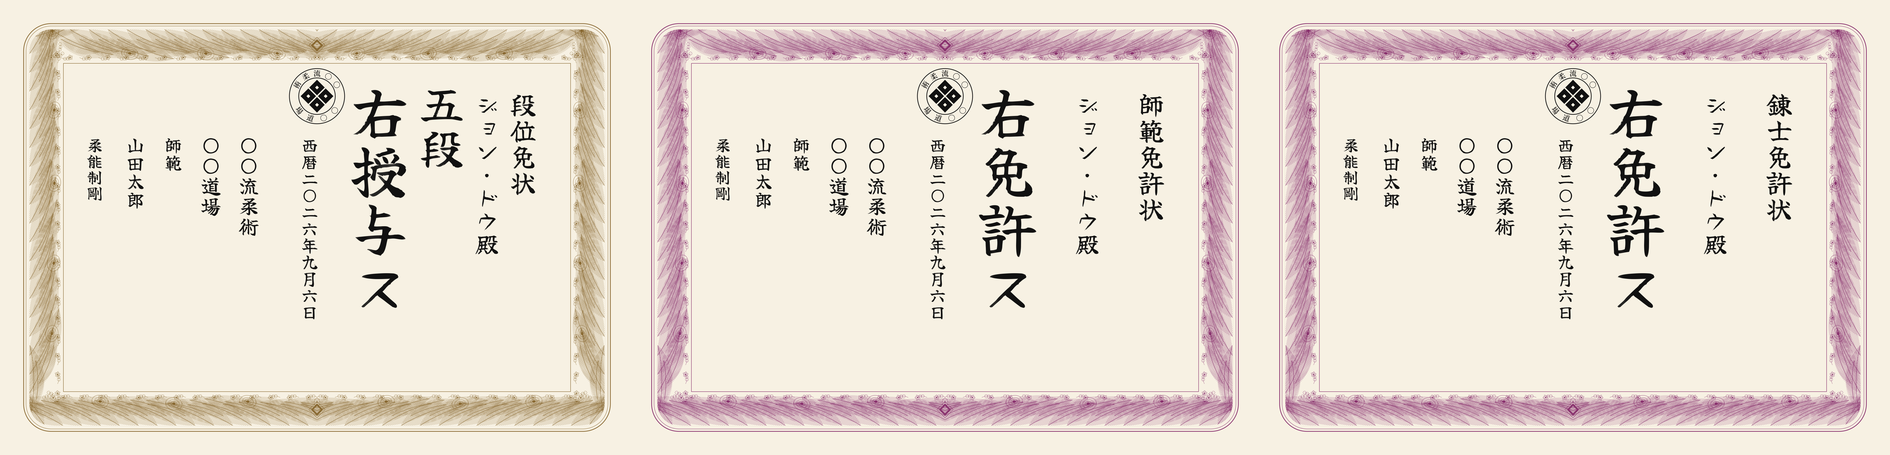
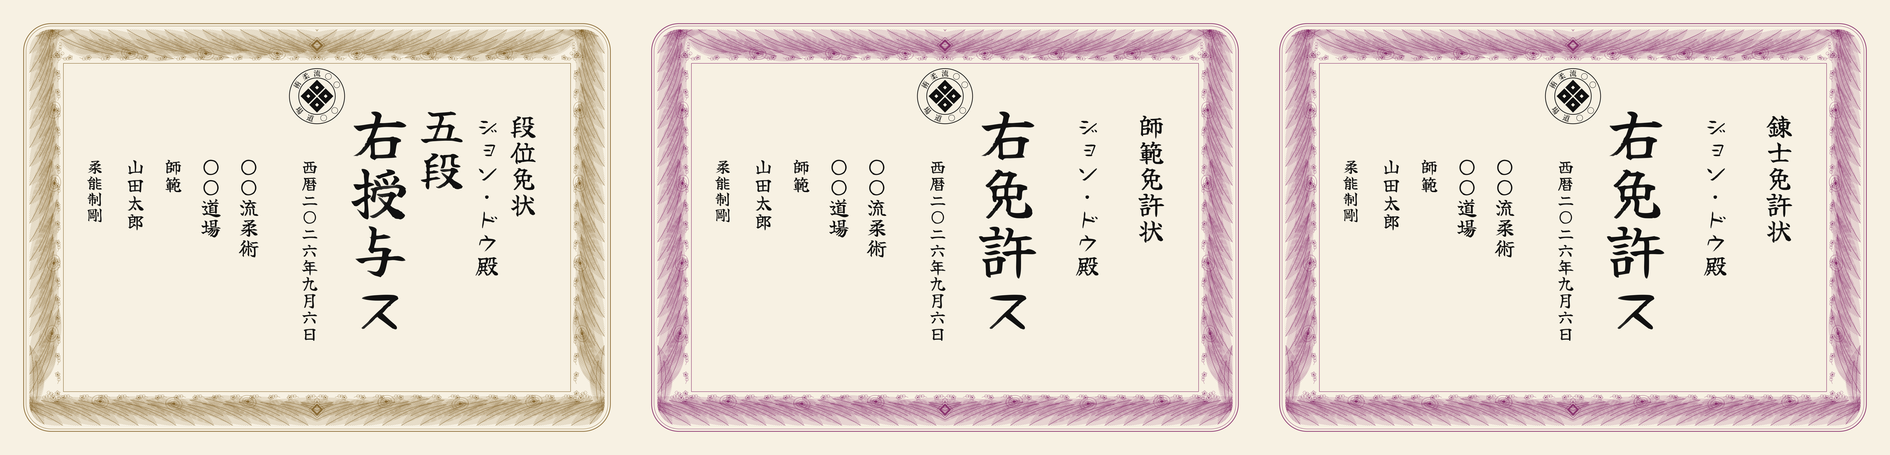
Configurable vertical text offset

diff --git a/src/build_diploma.py b/src/build_diploma.py
@@ -352,6 +352,17 @@ def document(verb, heading, crest_kind="full", guides=False,
              honorific="殿", rank=None, date=None, rank_column=True,
              border_colour=SEPIA):
     """One certificate. `verb` is the four-character award formula."""
+    # `[paper] text_drop` (a fraction of the page height) shifts every printed
+    # column's starting point down by the same amount, giving the whole
+    # reading order more air above it without re-tuning each Y_* constant by
+    # hand. It leaves the crest and the seal where they are -- those are not
+    # text lines -- and it does not resize anything, so a large value can push
+    # a tall column (the blank date grid is the tallest) past `safe_inset`.
+    # Check `-v proof` after changing it.
+    drop = CFG.text_drop * PAGE_H
+    y_heading, y_rank, y_verb, y_block = (
+        Y_HEADING + drop, Y_RANK + drop, Y_VERB + drop, Y_BLOCK + drop)
+
     o = []
     o.append(
         f'<svg xmlns="http://www.w3.org/2000/svg" width="{PAGE_W}mm" height="{PAGE_H}mm" '
@@ -380,7 +391,7 @@ def document(verb, heading, crest_kind="full", guides=False,
         zones = []
         if rank_column and not rank:
             x_rank_guide = (right_columns(True)[1] if name else X_RANK)
-            zones.append((x_rank_guide - 16, Y_RANK - 14, 32, 66, "rank"))
+            zones.append((x_rank_guide - 16, y_rank - 14, 32, 66, "rank"))
         if not name:
             zones.append((X_NAME_2 - 13, 130, 50, 95, "name"))
         for x, y, w, h, lab in zones:
@@ -390,7 +401,7 @@ def document(verb, heading, crest_kind="full", guides=False,
             )
         for i, ch in enumerate([] if date else DATE_SLOTS):
             if ch is None:
-                cy = Y_BLOCK + i * SZ_DATE
+                cy = y_block + i * SZ_DATE
                 o.append(
                     f'<rect x="{X_DATE-SZ_DATE*0.42:.2f}" y="{cy-SZ_DATE*0.42:.2f}" '
                     f'width="{SZ_DATE*0.84:.2f}" height="{SZ_DATE*0.84:.2f}" fill="none" '
@@ -419,26 +430,26 @@ def document(verb, heading, crest_kind="full", guides=False,
         return "\n".join(o)
 
     # printed columns
-    o.append(vcol(list(heading), X_HEADING, Y_HEADING, SZ_HEADING, W_BOLD)[0])
+    o.append(vcol(list(heading), X_HEADING, y_heading, SZ_HEADING, W_BOLD)[0])
     x_awardee, x_rank = right_columns(rank_column)
     if name:
         chars = list(name) + list(honorific or "")
         size = min(SZ_AWARDEE, AWARDEE_MAX_H / max(1, len(chars)))
-        o.append(vcol(chars, x_awardee, Y_RANK, size, W_BOLD)[0])
+        o.append(vcol(chars, x_awardee, y_rank, size, W_BOLD)[0])
     if rank:
         o.append(vcol(list(rank), (x_rank if name else X_RANK),
-                      Y_RANK, SZ_RANK, W_BOLD)[0])
-    o.append(vcol(list(verb), X_VERB, Y_VERB, SZ_VERB, W_BOLD)[0])
+                      y_rank, SZ_RANK, W_BOLD)[0])
+    o.append(vcol(list(verb), X_VERB, y_verb, SZ_VERB, W_BOLD)[0])
     # A printed date is set solid; a blank one keeps its slots spaced out so
     # the calligrapher has a grid to write into.
-    o.append(vcol(date or DATE_SLOTS, X_DATE, Y_BLOCK, SZ_DATE, W_MED)[0])
+    o.append(vcol(date or DATE_SLOTS, X_DATE, y_block, SZ_DATE, W_MED)[0])
     # Any of these may be empty in the config, in which case vcol draws
     # nothing and the column is simply absent.
-    o.append(vcol(list(CFG.art), X_STYLE, Y_BLOCK, SZ_BLOCK, W_MED)[0])
-    o.append(vcol(list(CFG.dojo), X_DOJO, Y_BLOCK, SZ_BLOCK, W_MED)[0])
-    o.append(vcol(list(CFG.signer_title), X_TITLE, Y_BLOCK, SZ_TITLE, W_MED)[0])
-    o.append(vcol(list(CFG.signer_name), X_SIGNER, Y_BLOCK, SZ_SIGNER, W_MED)[0])
-    o.append(vcol(list(CFG.motto), X_MOTTO, Y_BLOCK, SZ_MOTTO, W_MED)[0])
+    o.append(vcol(list(CFG.art), X_STYLE, y_block, SZ_BLOCK, W_MED)[0])
+    o.append(vcol(list(CFG.dojo), X_DOJO, y_block, SZ_BLOCK, W_MED)[0])
+    o.append(vcol(list(CFG.signer_title), X_TITLE, y_block, SZ_TITLE, W_MED)[0])
+    o.append(vcol(list(CFG.signer_name), X_SIGNER, y_block, SZ_SIGNER, W_MED)[0])
+    o.append(vcol(list(CFG.motto), X_MOTTO, y_block, SZ_MOTTO, W_MED)[0])
 
     o.append("</svg>")
     return "\n".join(o)

diff --git a/src/config.py b/src/config.py
@@ -54,6 +54,11 @@ class Config:
     motto: str = ""
     stock_border: float = 22.0
     safe_inset: float = 38.0
+    # Fraction of the page height added to every printed column's starting
+    # point -- 0.0 reproduces the original, hand-tuned layout exactly. A large
+    # value can push the blank date grid (the tallest column, when the date is
+    # left for the calligrapher) past `safe_inset`; check `-v proof`.
+    text_drop: float = 0.0
     awards: list = field(default_factory=list)
     source: str = "<defaults>"
 
@@ -119,6 +124,7 @@ def load(path=None):
         motto=motto.get("text", Config.motto),
         stock_border=float(paper.get("border", Config.stock_border)),
         safe_inset=float(paper.get("safe_inset", Config.safe_inset)),
+        text_drop=float(paper.get("text_drop", Config.text_drop)),
         sample_name=str(sample.get("name", Config.sample_name)),
         sample_rank=str(sample.get("rank", Config.sample_rank)),
         sample_date=str(sample.get("date", Config.sample_date)),

diff --git a/README.md b/README.md
@@ -1,7 +1,7 @@
 # menkyo-menjo-builder — Japanese dan and menkyo certificates
 
 > [!NOTE]
-> **Written by Claude.** Every line of code and documentation in this
+> **Vibe coding warning.** Every line of code and documentation in this
 > repository was generated by an AI model, with a human directing it and
 > deciding what to keep. Read it as such: the code is workmanlike at best,
 > the prose is more confident than the engineering behind it deserves, and
@@ -19,20 +19,12 @@ be printed or left blank for a calligrapher to brush in.
 
 <p align="center"><img src="docs/three_up.png" alt="the three certificates, unconfigured" width="880"></p>
 
-<p align="center"><em>The three documents as an unconfigured build produces
-them — every name on them a placeholder.</em></p>
+<p align="center"><em>The three documents as an unconfigured build produces them.</em></p>
 
 Everything that identifies a school lives in a TOML file. Out of the box the
 generator names nobody: it prints 〇〇流柔術 and 〇〇道場 — the ordinary
 Japanese placeholder — so an unconfigured build produces a correctly typeset
 certificate that grants nothing.
-
-Every slot is filled in all the same. The shipped configuration carries
-stand-ins — 五段 for the grade, ジョン・ドウ for the recipient, today's date,
-山田太郎 for the signatory, 柔能制剛 for the precept — so that a first run
-shows a finished sheet rather than a mostly empty one, and you can see what
-the layout does before configuring anything. Every one of them is meant to be
-replaced or cleared.
 
 ## Quick start
 
@@ -43,9 +35,7 @@ python3 src/build_diploma.py         # write it
 ```
 
 Needs Python 3.11+ (for `tomllib`), Inkscape, Ghostscript, and Pillow / NumPy
-/ SciPy. Files land in `build/` as `<award>-<variant>.<ext>` — with a
-`-sample` tag while the shipped stand-ins are in place, so a first build is
-plainly a set of specimens.
+/ SciPy. Files land in `build/` as `<award>-<variant>.<ext>`.
 
 ## Configuring it for your dōjō
 
@@ -65,24 +55,19 @@ name = "〇〇流柔術"          # the art, printed and on the crest's upper ar
 
 [dojo]
 name = "〇〇道場"            # the dōjō, printed below it
-crest_ring = "〇〇道場"      # four characters on the crest's lower arc
+crest_ring = ""              # four characters on the crest's lower arc
 
 [signer]
 title = "師範"               # the office that grants the award
-name = "山田太郎"            # the signatory; katakana for a Western name
+name = ""                    # the signatory, in katakana
 
 [motto]
-text = "柔能制剛"            # an optional school precept, in its own column
-
-[sample]                     # stand-ins for the hand-brushed slots —
-name = "ジョン・ドウ"        #   delete this section for real certificates
-rank = "5"
-date = "today"
-suffix = "sample"            # so a first build is obviously a specimen set
+text = ""                    # an optional school precept, in its own column
 
 [paper]
 border = 22.0                # mm — see "Printing onto bought stock"
 safe_inset = 38.0
+text_drop = 0.05              # fraction of page height — see "Where the columns start"
 
 [[awards]]
 slug = "dan"
@@ -102,6 +87,19 @@ recipient's name. Setting it `false` closes the layout up.
 Giving the licences a second `colour` is a good way to make them read apart
 from the grades at a glance — but only on the `full` variants, since the
 overlay route's border is bought paper.
+
+### Where the columns start
+
+`text_drop` shifts every printed column's starting point down by that
+fraction of the page height, giving the reading order more air above it
+without resizing or re-tuning anything. `0.05` is the shipped taste; `0`
+reproduces the original layout, columns starting right under the crest.
+
+It moves every column by the same amount, so a large value can push a tall
+column past `safe_inset`. The one that matters is the date **left blank**:
+its fourteen slots are the tallest column on the sheet, and at `0.05` it
+still clears `safe_inset` by a few mm. Check with
+`python3 src/build_diploma.py -v proof -d ''` before raising it further.
 
 ### An optional traced crest
 
@@ -128,9 +126,9 @@ constants at the top of `src/build_diploma.py`.
 | `-f`, `--formats LIST` | `pdf`, `png`, `svg` (default: `pdf`) |
 | `--press` | also write the colour conversions a commercial printer wants |
 | `--no-ink` | solid black instead of graded sumi |
-| `-n`, `--name KATAKANA` | print the recipient's name instead of leaving it blank; `''` clears the config's stand-in |
-| `-r`, `--rank GRADE` | print the grade: `2` or `nidan` → 二段, `1` → 初段, or literal text; `''` clears |
-| `-d`, `--date YYYY-MM-DD` | print the award date in kanji; `today` also works; `''` clears |
+| `-n`, `--name KATAKANA` | print the recipient's name instead of leaving it blank |
+| `-r`, `--rank GRADE` | print the grade: `2` or `nidan` → 二段, `1` → 初段, or literal text |
+| `-d`, `--date YYYY-MM-DD` | print the award date in kanji; `today` also works |
 | `--honorific TEXT` | appended to a printed name (default from the config; `''` to omit) |
 | `--suffix TEXT` | tag for output filenames (defaults to the name) |
 | `--dpi N` | resolution for PNG output (default: 300) |
@@ -164,17 +162,6 @@ enough to look at, without burying them under variants you rarely want.
 Three slots are normally left for the calligrapher — the grade, the recipient
 and the date — and any of them can be printed instead.
 
-Which happens is `--rank`, `--name` and `--date`, each falling back to the
-`[sample]` section of the configuration when you leave the flag off. The
-shipped example fills all three so that a first build is a finished sheet;
-**delete the section from your own `dojo.toml`** and the slots go back to
-being blank, which is what a dōjō printing onto real stock wants. To clear one
-for a single run, pass it empty:
-
-```
-python3 src/build_diploma.py -n '' -r '' -d ''   # the three slots left blank
-```
-
 `--rank` takes a number or romaji and writes the kanji: `2` or `nidan` becomes
 二段, and `1` becomes **初段** — first dan has its own word, never 一段. Plain
 numerals are used rather than the formal 弐段; pass the literal text if you
@@ -189,14 +176,8 @@ hold back if a grading slips.
 
 `--name` prints the recipient in katakana, in its own column between the
 heading and the award, and moves the brushed rank slot left to make room. The
-filename picks the name up so one recipient's files never overwrite another's
-— naming a recipient or a grade always takes that derived tag, in preference
-to the `[sample]` one. Long names shrink to fit.
-
-A grade from `[sample]` is printed only on awards with `grade_column = true`:
-五段 belongs on the dan certificate and not on a licence whose heading has
-already named the award. An explicit `--rank` still goes wherever you point
-it, which is what makes `--rank 師範` work.
+filename picks the name up so one recipient's files never overwrite another's.
+Long names shrink to fit.
 
 **How a Western name should be written in katakana is a judgement call.**
 Dutch *Geert* could be ヘールト, ゲールト or フェールト — the hard G has no
@@ -279,11 +260,6 @@ that part.
 This produces credentials. It is a typesetting tool and it will cheerfully set
 any school's name in any grade — the placeholders exist so that it does not do
 so by default, but they are placeholders and not a lock.
-
-A first build now looks like a finished certificate rather than an empty one.
-It is not one: 〇〇流柔術 grants nothing, ジョン・ドウ is nobody, and the files
-say `-sample` on them. The point of filling the slots is to show the layout,
-not to hand anyone a document.
 
 Awarding rank in a Japanese martial art is somebody's prerogative, and usually
 not the prerogative of whoever has a printer. Configure it for the documents

diff --git a/DECISIONS.md b/DECISIONS.md
@@ -325,6 +325,47 @@ exists once something is in those columns.
   part of the example config a real `dojo.toml` should not have. With it gone
   the three flags behave exactly as before and the slots are blank again.
 
+## 2026-09-06 — A configurable start point for the columns
+
+Asked to move the printed columns down for a more generous top margin, and to
+make that adjustable rather than hand-picking new constants once.
+
+- **`[paper] text_drop`**, a fraction of the page height added to every
+  column's starting point (`Y_HEADING`, `Y_RANK`, `Y_VERB`, `Y_BLOCK`) at
+  render time. A fraction of page height rather than an absolute mm figure,
+  matching how the request was framed ("a tenth of the page") and keeping the
+  knob meaningful if the page size ever stops being a hardcoded A3 constant.
+  Applied uniformly so the columns move as one rigid group and keep their
+  hand-tuned relative spacing — not scaled per-column, which would have
+  reopened every proportion this log already settled.
+- **The Config dataclass itself defaults to `0.0`**, so a `dojo.toml`
+  predating this feature is unaffected until its owner opts in; `0`
+  reproduces the original layout exactly, columns starting right under the
+  crest.
+- **Checked against every column, not just the one that was asked about.**
+  `vcol` centres glyph *i* at `y0 + i*size`, so a column's rendered extent is
+  `(n - 0.5) * size`, not `n * size` — worth remembering before estimating any
+  of these by hand. The one column worth checking is the date **left blank**:
+  its fourteen slots are the tallest thing on the sheet, so it is the first to
+  reach `safe_inset` as the drop grows. A *printed* date is over 30 mm shorter
+  and is never close.
+- **Shipped at `0.05`, not the `0.10` first asked for.** At `0.10`, every
+  column but the blank date gains 15–60 mm of spare room before `safe_inset`
+  — but that one column's last slot lands about 18 mm past it, some 2 mm into
+  where a bought sheet's own printed border would sit, at the shipped
+  `border` / `safe_inset` (22 mm / 38 mm). At `0.05` the same column clears
+  `safe_inset` by a few mm instead of missing it, while still giving the top
+  of the sheet visibly more air than `0` did. Halving the request cost
+  noticeably less visible effect than it bought back in headroom.
+- **Caught while testing: this machine's own `dojo.toml` exists and is picked
+  up by default.** A build run without `-c` during this work used it instead
+  of `config/example.toml`, rendering real names into `build/`. `dojo.toml`
+  being git-ignored means it was never at risk of being committed, but the
+  render still happened and was shown before being caught and deleted. Every
+  render for this log and its images now pins `-c config/example.toml`
+  explicitly; worth remembering whenever this repository is used as its own
+  test fixture.
+
 ## Open
 
 - **Source the 賞状用紙.** Still the preferred route: `border` and
